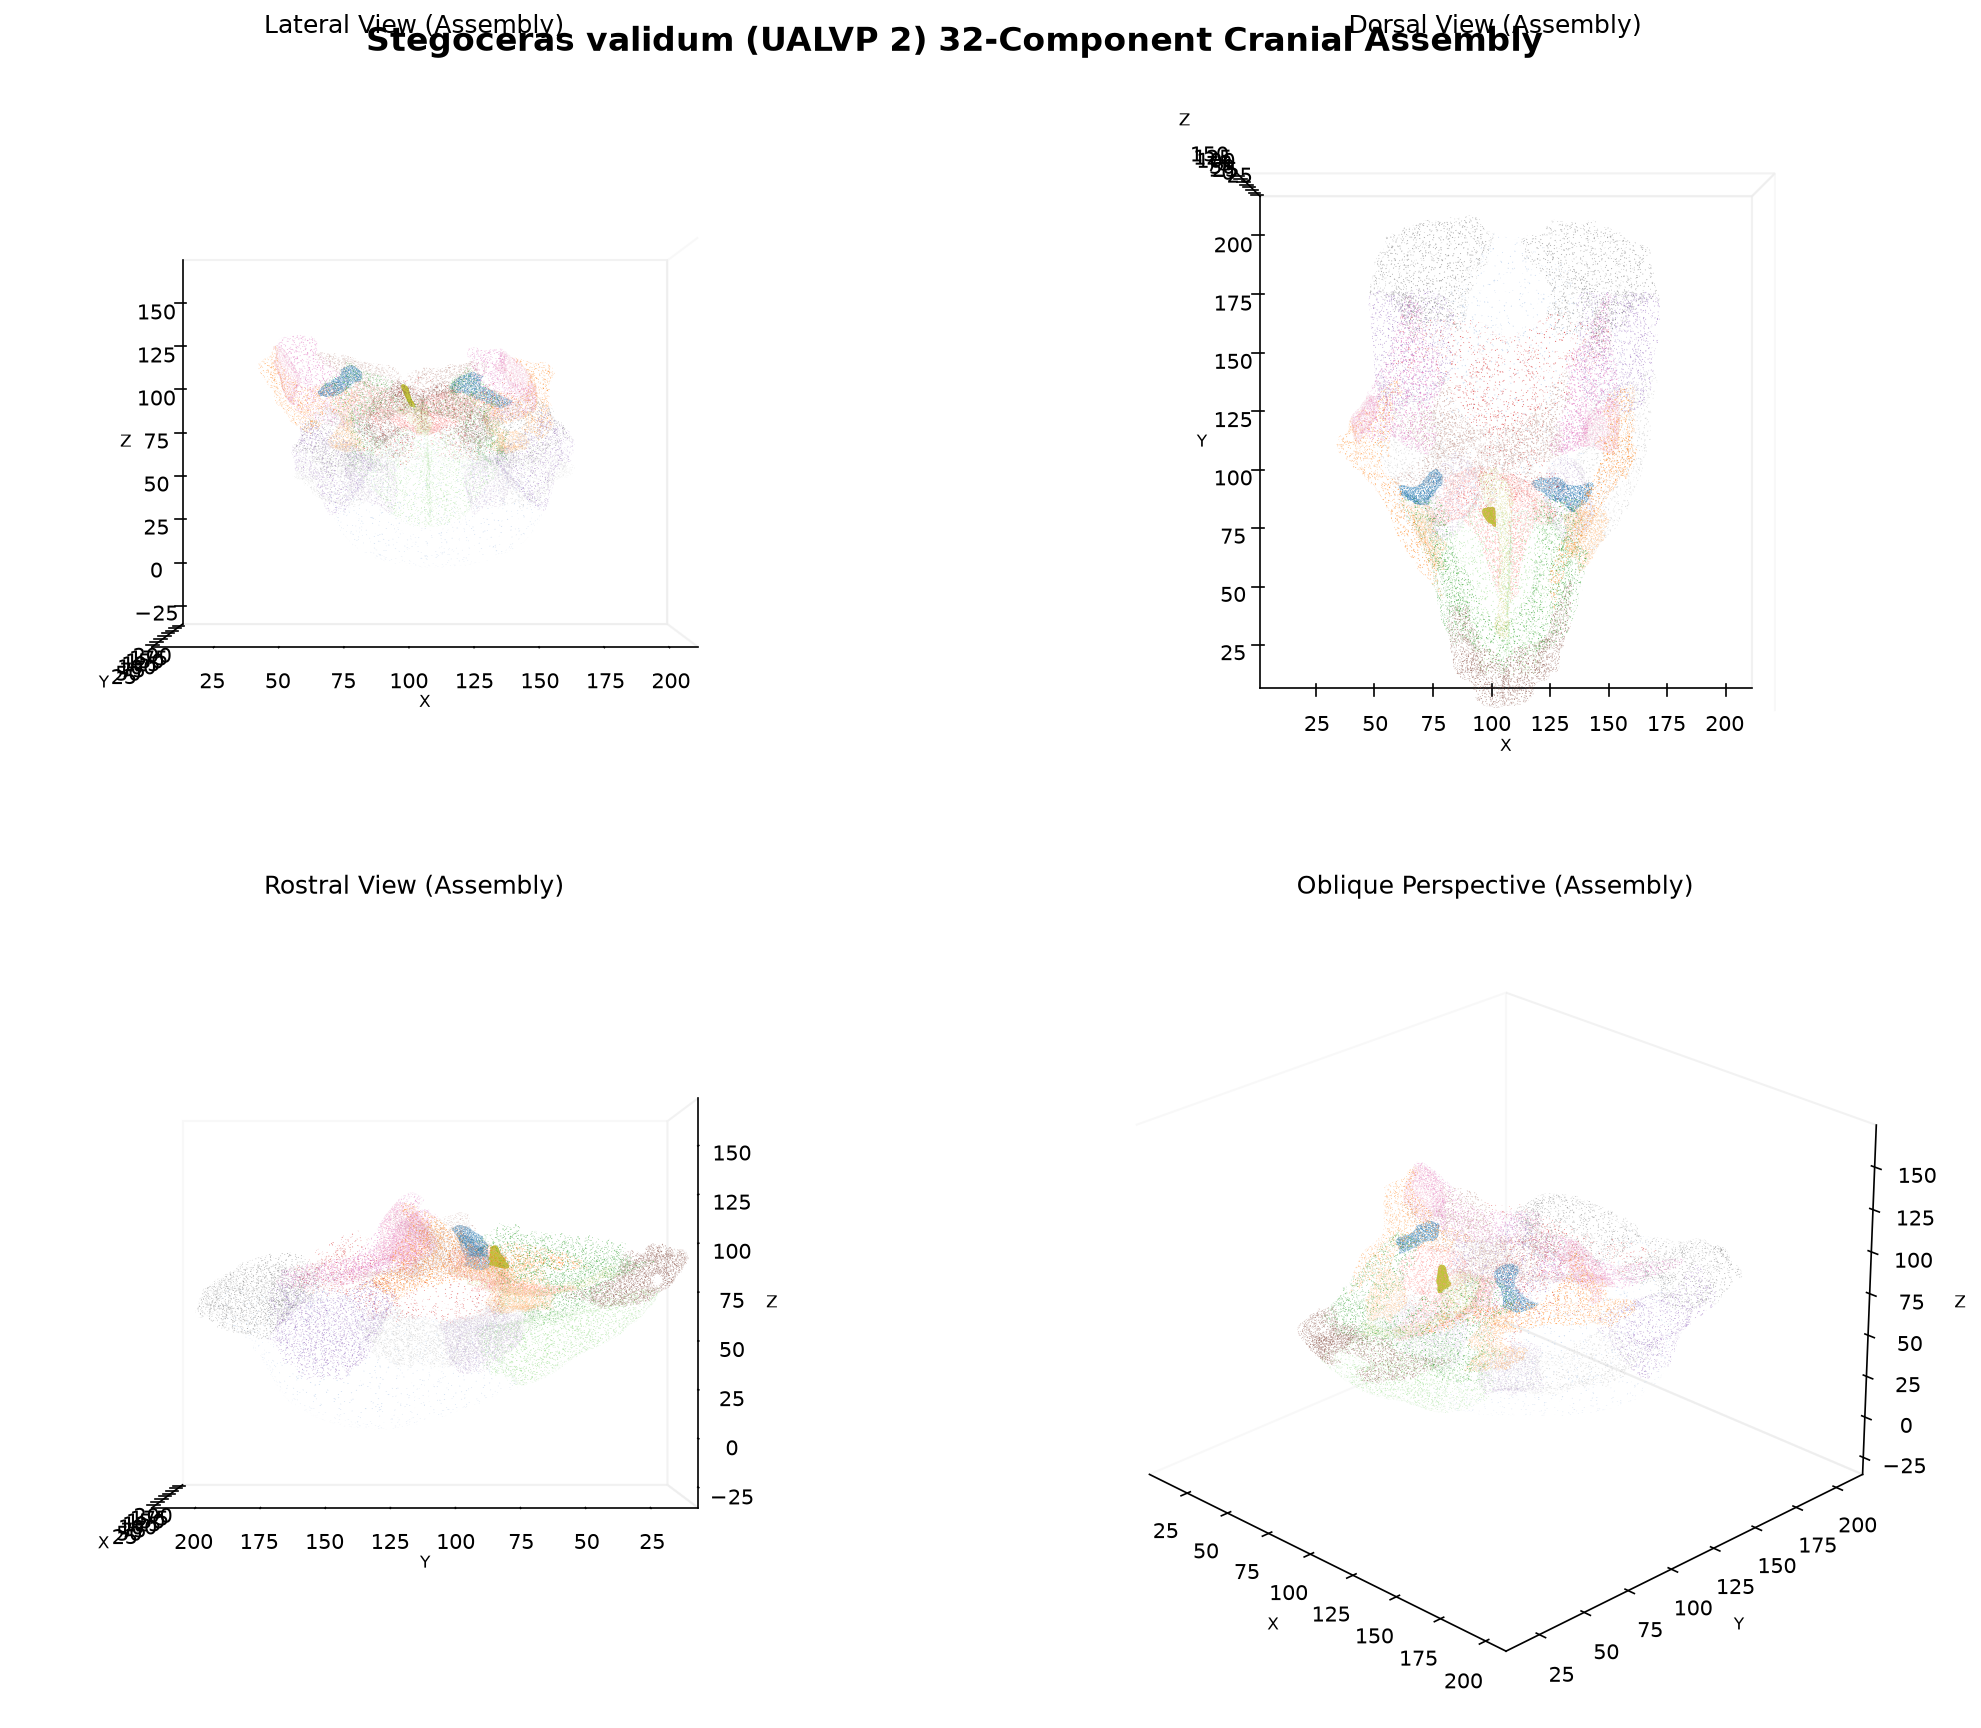
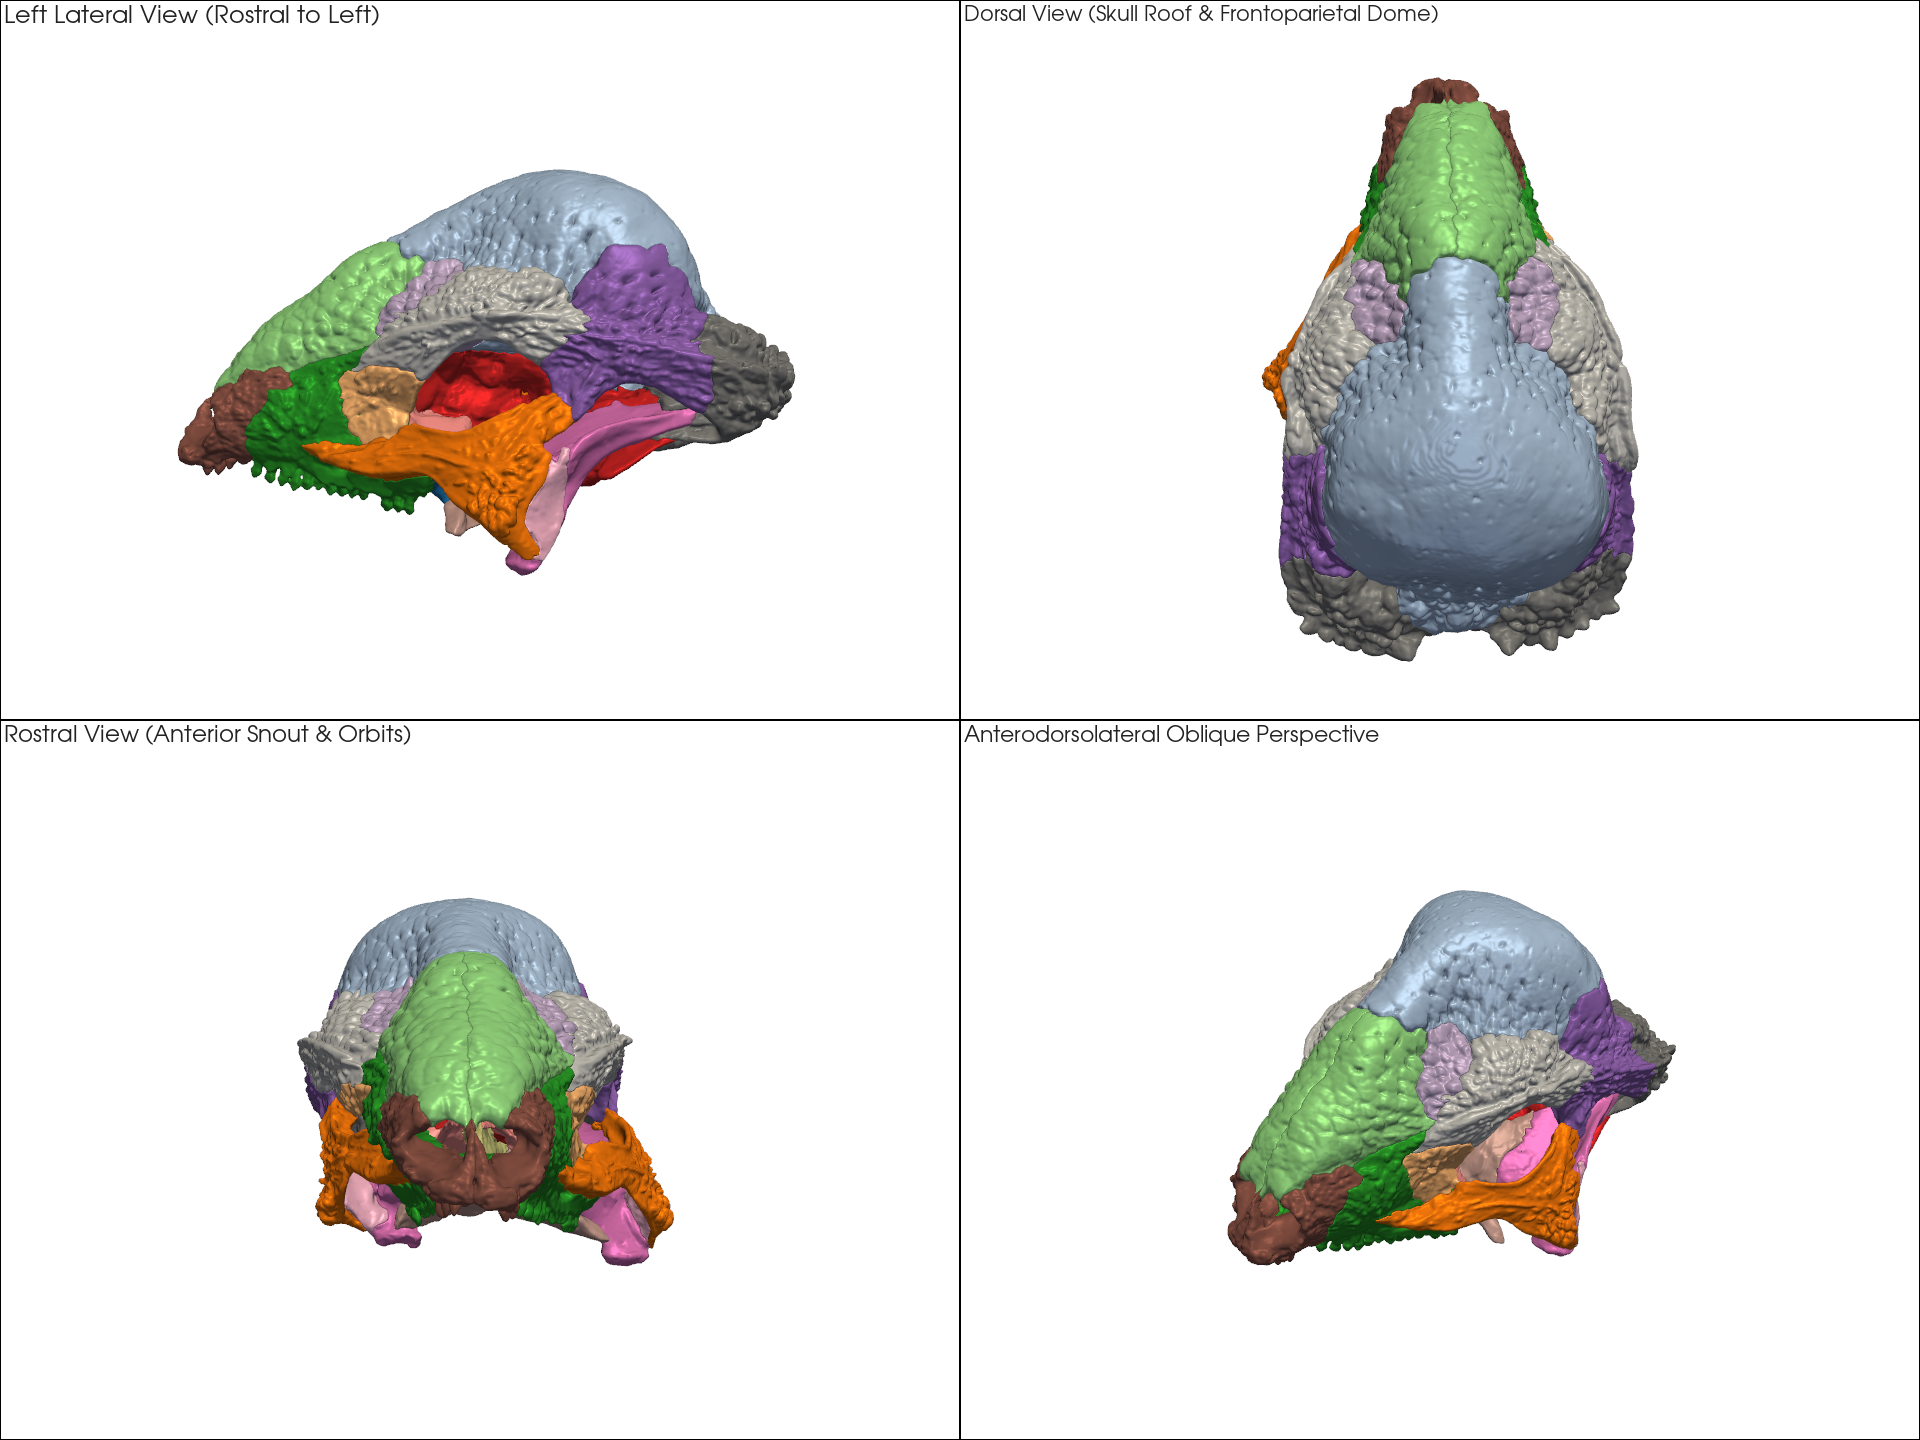
fix(viz): upgrade 3D cranial rendering engine to PyVista with smooth lighting, anatomical camera axes, and multi-view layout

diff --git a/src/stegoceras_biomechanics/visualization/render_geometry.py b/src/stegoceras_biomechanics/visualization/render_geometry.py
@@ -1,207 +1,174 @@
-"""Visualization utilities for generating publication-quality 3D renders of Stegoceras cranium and components."""
+"""Publication-quality 3D rendering engine for Stegoceras cranial meshes using PyVista and Matplotlib."""
 
 from pathlib import Path
 from typing import Dict, List, Optional, Tuple
 import matplotlib.pyplot as plt
-from mpl_toolkits.mplot3d import Axes3D
-from mpl_toolkits.mplot3d.art3d import Poly3DCollection
 import numpy as np
 import pandas as pd
-import trimesh
+import pyvista as pv
+
+# Configure headless offscreen rendering
+pv.OFF_SCREEN = True
+pv.set_plot_theme("document")
 
 
-def get_subsampled_triangles(mesh: trimesh.Trimesh, max_faces: int = 15000) -> np.ndarray:
-    """Subsample face array with uniform stride for clean, high-performance 3D rendering."""
-    num_f = len(mesh.faces)
-    if num_f <= max_faces:
-        return mesh.vertices[mesh.faces]
-    stride = int(np.ceil(num_f / max_faces))
-    sub_faces = mesh.faces[::stride]
-    return mesh.vertices[sub_faces]
+def get_standard_cranial_cameras(mesh: pv.PolyData) -> List[Tuple[str, Tuple[float, float, float], Tuple[float, float, float], Tuple[float, float, float]]]:
+    """Define standard 4-view anatomical camera positions (Lateral, Dorsal, Rostral, Oblique) with upright dome orientation."""
+    center = mesh.center
+    dist = mesh.length * 1.65
+    return [
+        ("Left Lateral View (Rostral to Left)", (center[0] - dist, center[1], center[2]), center, (0, 0, -1)),
+        ("Dorsal View (Skull Roof & Frontoparietal Dome)", (center[0], center[1], center[2] - dist), center, (0, -1, 0)),
+        ("Rostral View (Anterior Snout & Orbits)", (center[0], center[1] - dist, center[2]), center, (0, 0, -1)),
+        ("Anterodorsolateral Oblique Perspective", (center[0] - dist * 0.72, center[1] - dist * 0.72, center[2] - dist * 0.58), center, (0, 0, -1))
+    ]
 
 
 def render_mesh_orthogonal_views(
-    mesh: trimesh.Trimesh,
+    mesh_or_path: pv.PolyData,
     title: str,
     output_path: Path,
-    max_faces: int = 15000,
-    face_color: str = "#d4c5b9",
-    edge_color: Optional[str] = None
+    color: str = "#d8cdb8"
 ) -> None:
-    """Render 4 orthogonal/perspective views (Lateral, Dorsal, Rostral, Oblique) of a mesh to PNG."""
-    triangles = get_subsampled_triangles(mesh, max_faces=max_faces)
+    """Render 4-panel publication-grade shaded views of a single mesh (e.g. Whole Skull STL)."""
+    if isinstance(mesh_or_path, (str, Path)):
+        mesh = pv.read(str(mesh_or_path))
+    else:
+        mesh = mesh_or_path
 
-    fig = plt.figure(figsize=(16, 12), dpi=150)
-    fig.suptitle(title, fontsize=16, fontweight="bold", y=0.95)
+    cameras = get_standard_cranial_cameras(mesh)
+    plotter = pv.Plotter(shape=(2, 2), off_screen=True, window_size=[1920, 1440])
+    plotter.set_background("white")
 
-    views = [
-        ("Lateral View (Left)", 0, -90),
-        ("Dorsal View (Superior)", 90, -90),
-        ("Rostral View (Anterior)", 0, 180),
-        ("Oblique Perspective", 25, -45)
-    ]
-
-    for idx, (view_name, elev, azim) in enumerate(views, 1):
-        ax = fig.add_subplot(2, 2, idx, projection="3d")
-        poly = Poly3DCollection(
-            triangles,
-            facecolors=face_color,
-            edgecolors=edge_color if edge_color else "none",
-            linewidths=0.2 if edge_color else 0,
-            alpha=0.9
+    for idx, (view_title, pos, focal, up) in enumerate(cameras):
+        row, col = idx // 2, idx % 2
+        plotter.subplot(row, col)
+        plotter.add_mesh(
+            mesh,
+            color=color,
+            smooth_shading=True,
+            specular=0.45,
+            specular_power=18
         )
-        ax.add_collection3d(poly)
-        
-        # Center bounds
-        max_extent = np.max(mesh.extents)
-        center = mesh.centroid
-        ax.set_xlim(center[0] - max_extent / 2, center[0] + max_extent / 2)
-        ax.set_ylim(center[1] - max_extent / 2, center[1] + max_extent / 2)
-        ax.set_zlim(center[2] - max_extent / 2, center[2] + max_extent / 2)
-        
-        ax.view_init(elev=elev, azim=azim)
-        ax.set_title(view_name, fontsize=12, pad=10)
-        ax.set_xlabel("X (Coordinate units)", fontsize=8)
-        ax.set_ylabel("Y (Coordinate units)", fontsize=8)
-        ax.set_zlabel("Z (Coordinate units)", fontsize=8)
-        ax.grid(False)
-        ax.xaxis.pane.fill = False
-        ax.yaxis.pane.fill = False
-        ax.zaxis.pane.fill = False
+        plotter.add_text(view_title, position="upper_left", font_size=12, color="#222222")
+        plotter.camera_position = [pos, focal, up]
 
-    plt.tight_layout()
     output_path.parent.mkdir(parents=True, exist_ok=True)
-    plt.savefig(output_path, bbox_inches="tight", dpi=150)
-    plt.close(fig)
-    print(f"Saved figure: {output_path}")
+    plotter.screenshot(str(output_path))
+    plotter.close()
+    print(f"Saved whole skull render: {output_path}")
 
 
 def render_component_assembly_views(
-    components_dict: Dict[str, trimesh.Trimesh],
+    components_dir: Path,
     inventory_df: pd.DataFrame,
     title: str,
-    output_path: Path,
-    max_faces_per_comp: int = 1500
+    output_path: Path
 ) -> None:
-    """Render 4 views of the multi-part assembly color-coded by anatomical element."""
-    # Palette of distinct harmonious colors for anatomical bones
+    """Render 4-panel shaded views of the 32-component cranial assembly color-coded by anatomical bone."""
+    # Palette of 20 distinct harmonious colors for anatomical elements
     cmap = plt.get_cmap("tab20")
     unique_elements = sorted(inventory_df[inventory_df["side"] != "Complete"]["element_name"].unique())
-    color_map = {elem: cmap(i % 20) for i, elem in enumerate(unique_elements)}
+    color_map = {elem: [int(c * 255) for c in cmap(i % 20)[:3]] for i, elem in enumerate(unique_elements)}
 
-    fig = plt.figure(figsize=(16, 12), dpi=150)
-    fig.suptitle(title, fontsize=16, fontweight="bold", y=0.95)
-
-    views = [
-        ("Lateral View (Assembly)", 0, -90),
-        ("Dorsal View (Assembly)", 90, -90),
-        ("Rostral View (Assembly)", 0, 180),
-        ("Oblique Perspective (Assembly)", 25, -45)
-    ]
-
-    # Pre-process simplified component triangles and colors
-    comp_render_data = []
-    global_center = np.zeros(3)
-    total_verts = 0
-
+    # Preload all component PolyData meshes
+    comp_meshes = []
     for _, row in inventory_df.iterrows():
         if row["side"] == "Complete":
             continue
-        stem = Path(row["filename"]).stem
-        mesh = components_dict.get(stem)
-        if mesh is None:
+        stl_path = components_dir / row["filename"]
+        if not stl_path.exists():
             continue
+        m = pv.read(str(stl_path))
         elem = row["element_name"]
-        color = color_map.get(elem, (0.7, 0.7, 0.7, 0.9))
-        
-        tris = get_subsampled_triangles(mesh, max_faces=max_faces_per_comp)
-        comp_render_data.append((tris, color, elem))
-        global_center += mesh.centroid * len(mesh.vertices)
-        total_verts += len(mesh.vertices)
+        color = color_map.get(elem, [180, 180, 180])
+        comp_meshes.append((m, color, elem))
 
-    global_center /= total_verts
+    # Reference camera from combined bounding envelope
+    combined = pv.PolyData()
+    for m, _, _ in comp_meshes:
+        combined = combined.merge(m)
 
-    for idx, (view_name, elev, azim) in enumerate(views, 1):
-        ax = fig.add_subplot(2, 2, idx, projection="3d")
-        for tris, color, _ in comp_render_data:
-            poly = Poly3DCollection(tris, facecolors=color, edgecolors="none", alpha=0.85)
-            ax.add_collection3d(poly)
-            
-        max_extent = 210.0
-        ax.set_xlim(global_center[0] - max_extent / 2, global_center[0] + max_extent / 2)
-        ax.set_ylim(global_center[1] - max_extent / 2, global_center[1] + max_extent / 2)
-        ax.set_zlim(global_center[2] - max_extent / 2, global_center[2] + max_extent / 2)
-        
-        ax.view_init(elev=elev, azim=azim)
-        ax.set_title(view_name, fontsize=12, pad=10)
-        ax.set_xlabel("X", fontsize=8)
-        ax.set_ylabel("Y", fontsize=8)
-        ax.set_zlabel("Z", fontsize=8)
-        ax.grid(False)
-        ax.xaxis.pane.fill = False
-        ax.yaxis.pane.fill = False
-        ax.zaxis.pane.fill = False
+    cameras = get_standard_cranial_cameras(combined)
+    plotter = pv.Plotter(shape=(2, 2), off_screen=True, window_size=[1920, 1440])
+    plotter.set_background("white")
 
-    plt.tight_layout()
+    for idx, (view_title, pos, focal, up) in enumerate(cameras):
+        row, col = idx // 2, idx % 2
+        plotter.subplot(row, col)
+        for m, color, _ in comp_meshes:
+            plotter.add_mesh(
+                m,
+                color=color,
+                smooth_shading=True,
+                specular=0.40,
+                specular_power=15
+            )
+        plotter.add_text(view_title, position="upper_left", font_size=12, color="#222222")
+        plotter.camera_position = [pos, focal, up]
+
     output_path.parent.mkdir(parents=True, exist_ok=True)
-    plt.savefig(output_path, bbox_inches="tight", dpi=150)
-    plt.close(fig)
-    print(f"Saved figure: {output_path}")
+    plotter.screenshot(str(output_path))
+    plotter.close()
+    print(f"Saved component assembly render: {output_path}")
 
 
 def render_assembly_vs_whole_overlay(
-    skull_mesh: trimesh.Trimesh,
-    assembly_mesh: trimesh.Trimesh,
-    output_path: Path,
-    max_faces: int = 15000
+    skull_path: Path,
+    components_dir: Path,
+    inventory_df: pd.DataFrame,
+    output_path: Path
 ) -> None:
-    """Render overlay comparison of whole-skull mesh (gray solid) and component assembly (cyan wireframe/points)."""
-    sk_tris = get_subsampled_triangles(skull_mesh, max_faces=max_faces)
-    as_tris = get_subsampled_triangles(assembly_mesh, max_faces=max_faces)
+    """Render 4-panel overlay of whole skull (semi-transparent gray) and component assembly."""
+    skull_mesh = pv.read(str(skull_path))
 
-    fig = plt.figure(figsize=(16, 12), dpi=150)
-    fig.suptitle("Whole Skull (Gray) vs. 32-Component Assembly (Cyan) Overlay", fontsize=15, fontweight="bold", y=0.95)
+    cmap = plt.get_cmap("tab20")
+    unique_elements = sorted(inventory_df[inventory_df["side"] != "Complete"]["element_name"].unique())
+    color_map = {elem: [int(c * 255) for c in cmap(i % 20)[:3]] for i, elem in enumerate(unique_elements)}
 
-    views = [
-        ("Lateral Overlay View", 0, -90),
-        ("Dorsal Overlay View", 90, -90),
-        ("Rostral Overlay View", 0, 180),
-        ("Oblique Overlay Perspective", 25, -45)
-    ]
+    comp_meshes = []
+    for _, row in inventory_df.iterrows():
+        if row["side"] == "Complete":
+            continue
+        stl_path = components_dir / row["filename"]
+        if not stl_path.exists():
+            continue
+        m = pv.read(str(stl_path))
+        elem = row["element_name"]
+        color = color_map.get(elem, [180, 180, 180])
+        comp_meshes.append((m, color))
 
-    center = skull_mesh.centroid
-    max_extent = np.max(skull_mesh.extents)
+    cameras = get_standard_cranial_cameras(skull_mesh)
+    plotter = pv.Plotter(shape=(2, 2), off_screen=True, window_size=[1920, 1440])
+    plotter.set_background("white")
 
-    for idx, (view_name, elev, azim) in enumerate(views, 1):
-        ax = fig.add_subplot(2, 2, idx, projection="3d")
-        
-        # Add whole skull as solid gray
-        poly_sk = Poly3DCollection(sk_tris, facecolors="#cccccc", edgecolors="none", alpha=0.6)
-        ax.add_collection3d(poly_sk)
-        
-        # Add assembly as semi-transparent cyan with subtle edges
-        poly_as = Poly3DCollection(as_tris, facecolors="#00a8cc", edgecolors="#005b66", linewidths=0.1, alpha=0.4)
-        ax.add_collection3d(poly_as)
-        
-        ax.set_xlim(center[0] - max_extent / 2, center[0] + max_extent / 2)
-        ax.set_ylim(center[1] - max_extent / 2, center[1] + max_extent / 2)
-        ax.set_zlim(center[2] - max_extent / 2, center[2] + max_extent / 2)
-        
-        ax.view_init(elev=elev, azim=azim)
-        ax.set_title(view_name, fontsize=12, pad=10)
-        ax.set_xlabel("X", fontsize=8)
-        ax.set_ylabel("Y", fontsize=8)
-        ax.set_zlabel("Z", fontsize=8)
-        ax.grid(False)
-        ax.xaxis.pane.fill = False
-        ax.yaxis.pane.fill = False
-        ax.zaxis.pane.fill = False
+    for idx, (view_title, pos, focal, up) in enumerate(cameras):
+        row, col = idx // 2, idx % 2
+        plotter.subplot(row, col)
+        # Whole skull semi-transparent shell
+        plotter.add_mesh(
+            skull_mesh,
+            color="#bbbbbb",
+            opacity=0.35,
+            smooth_shading=True,
+            specular=0.2
+        )
+        # Individual colored bones
+        for m, color in comp_meshes:
+            plotter.add_mesh(
+                m,
+                color=color,
+                opacity=0.85,
+                smooth_shading=True,
+                specular=0.4
+            )
+        plotter.add_text(view_title, position="upper_left", font_size=12, color="#222222")
+        plotter.camera_position = [pos, focal, up]
 
-    plt.tight_layout()
     output_path.parent.mkdir(parents=True, exist_ok=True)
-    plt.savefig(output_path, bbox_inches="tight", dpi=150)
-    plt.close(fig)
-    print(f"Saved figure: {output_path}")
+    plotter.screenshot(str(output_path))
+    plotter.close()
+    print(f"Saved overlay render: {output_path}")
 
 
 def render_bilateral_symmetry_mosaic(
@@ -210,9 +177,9 @@ def render_bilateral_symmetry_mosaic(
 ) -> None:
     """Generate summary bar chart ranking bilateral symmetry deviation across all 14 cranial bone pairs."""
     fig, (ax1, ax2) = plt.subplots(1, 2, figsize=(16, 7), dpi=150)
-    
+
     df_sorted = symmetry_df.sort_values("mean_symmetry_deviation", ascending=True)
-    
+
     # Chart 1: Mean Symmetry Deviation (coordinate distance between reflected left & native right)
     y_pos = np.arange(len(df_sorted))
     ax1.barh(y_pos, df_sorted["mean_symmetry_deviation"], color="#2b580c", alpha=0.85, edgecolor="#1f3c08")
@@ -221,10 +188,10 @@ def render_bilateral_symmetry_mosaic(
     ax1.set_xlabel("Mean Symmetry Deviation (Coordinate Units)", fontsize=11)
     ax1.set_title("Bilateral Geometric Deviation (Reflected Left vs. Right)", fontsize=12, fontweight="bold")
     ax1.grid(axis="x", linestyle="--", alpha=0.6)
-    
+
     for i, v in enumerate(df_sorted["mean_symmetry_deviation"]):
         ax1.text(v + 0.1, i, f"{v:.2f}", va="center", fontsize=9)
-        
+
     # Chart 2: Surface Area Difference Percentage
     df_area_sorted = symmetry_df.sort_values("area_difference_percent", ascending=True)
     y_pos2 = np.arange(len(df_area_sorted))
@@ -234,10 +201,10 @@ def render_bilateral_symmetry_mosaic(
     ax2.set_xlabel("Surface Area Difference (%)", fontsize=11)
     ax2.set_title("Bilateral Surface Area Discrepancy", fontsize=12, fontweight="bold")
     ax2.grid(axis="x", linestyle="--", alpha=0.6)
-    
+
     for i, v in enumerate(df_area_sorted["area_difference_percent"]):
         ax2.text(v + 0.3, i, f"{v:.1f}%", va="center", fontsize=9)
-        
+
     plt.suptitle("Bilateral Symmetry & Taphonomic Deformation Audit (14 Cranial Element Pairs)", fontsize=14, fontweight="bold", y=0.98)
     plt.tight_layout()
     output_path.parent.mkdir(parents=True, exist_ok=True)
